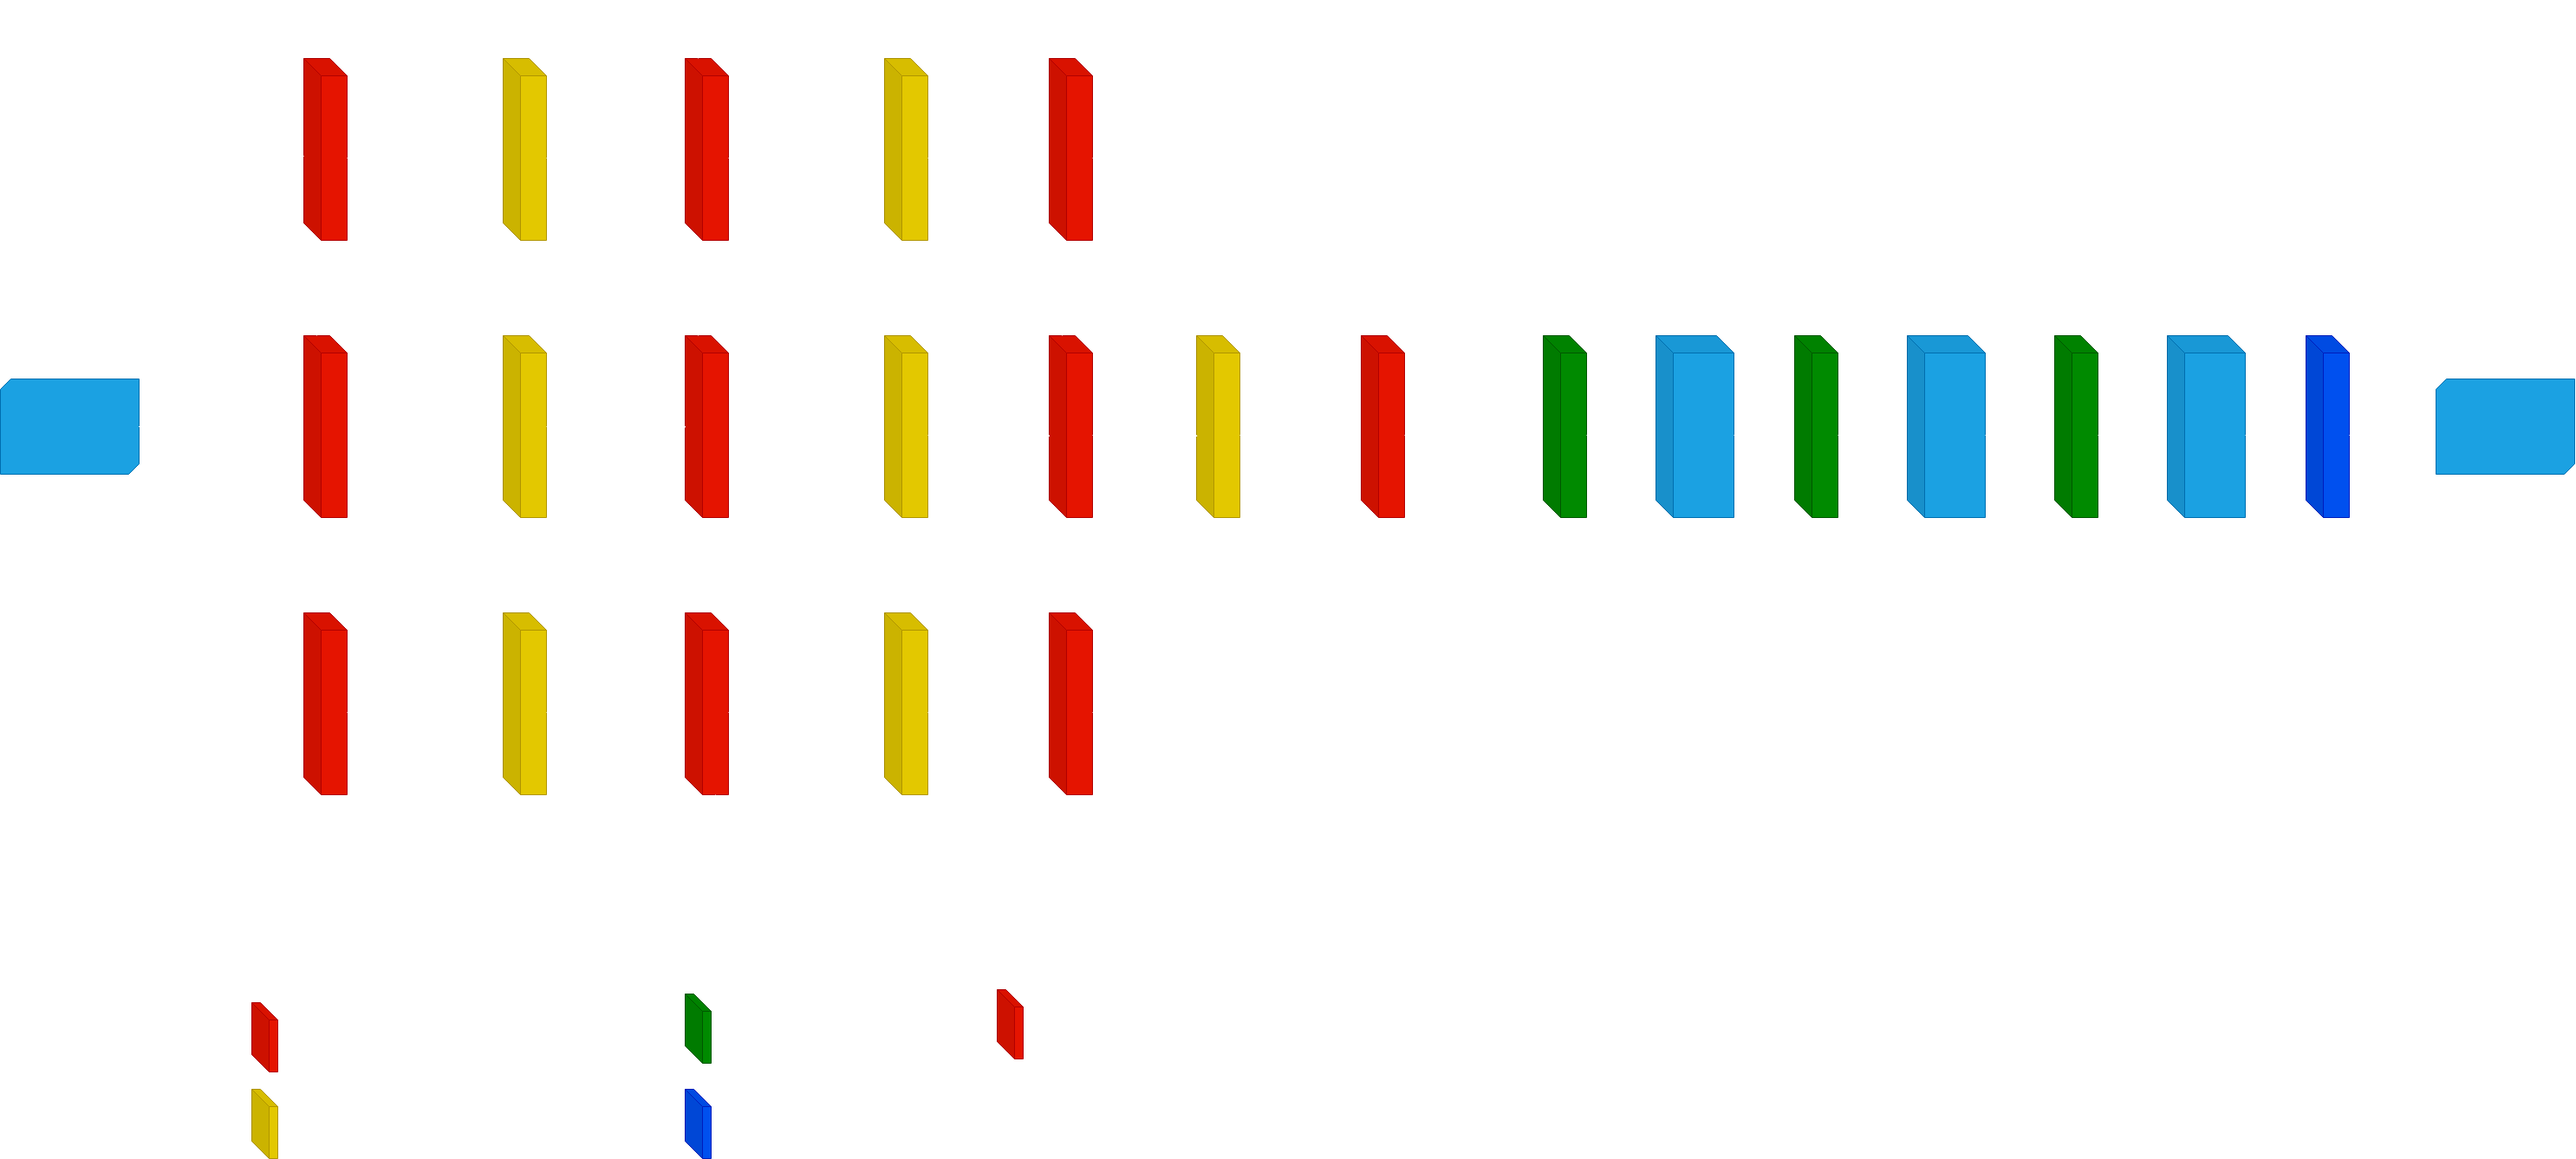
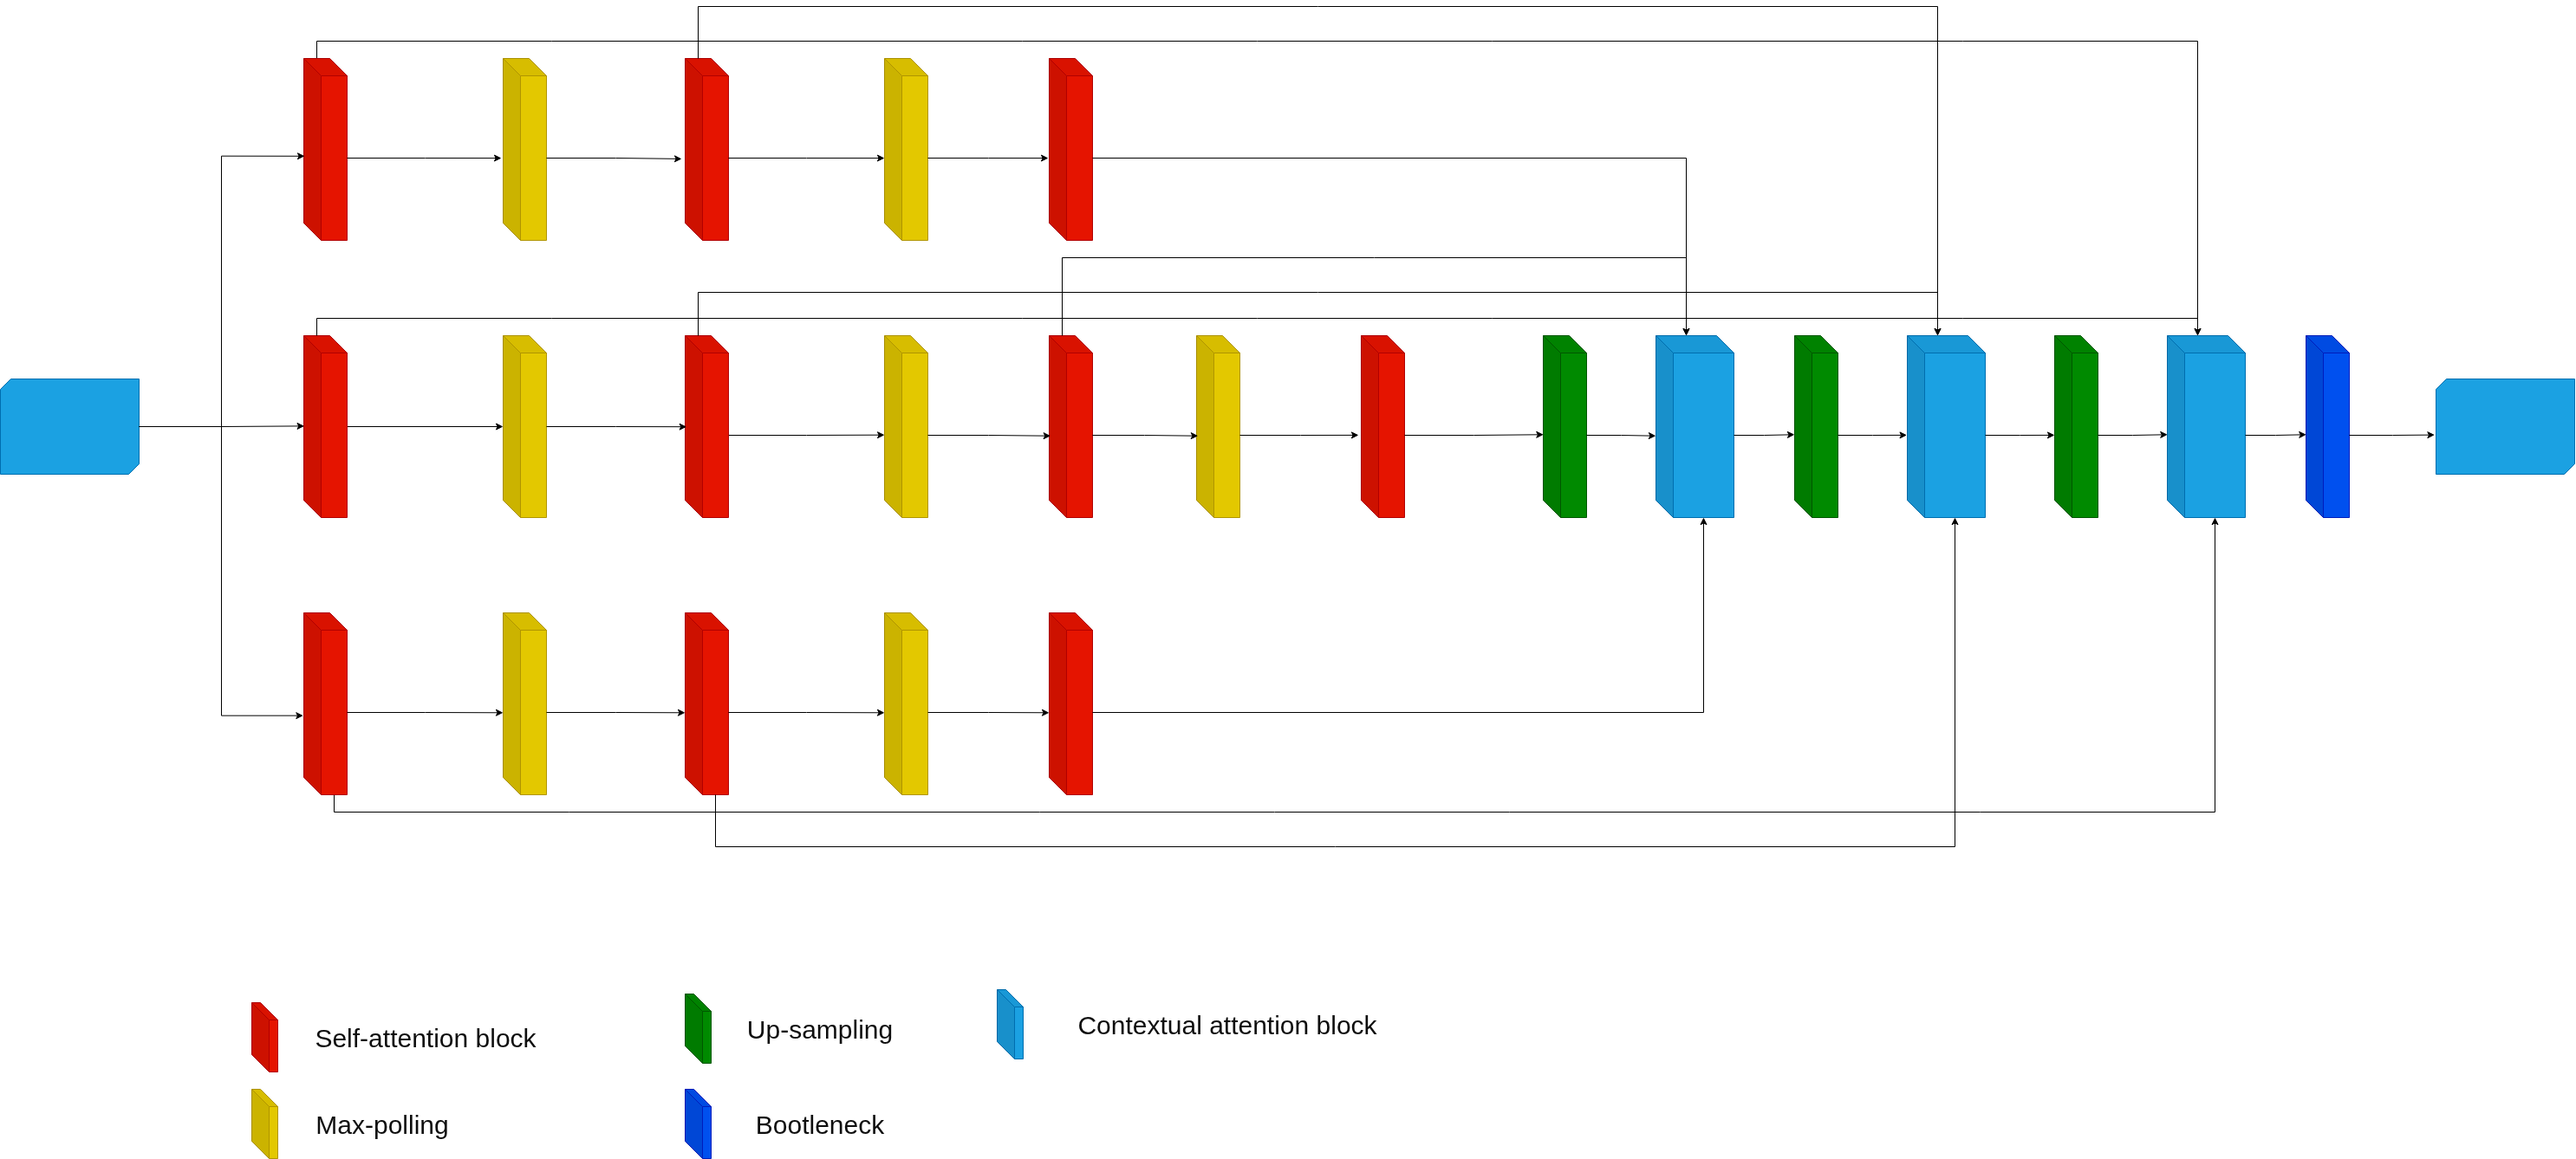
Text ready

diff --git a/document/paper.tex b/document/paper.tex
@@ -250,19 +250,27 @@ Accurate detection of road networks in satellite imagery is a fundamental task f
 Ten artykuł przeznaczony jest do analizy sieci U-Net będącej jedną z wariantów Convolution Neural Network oraz jej wykorzystaniu w celu wykrywania dróg na zdjęciach satelitarnych. Sieć ta szczególnie znana jest w zastosowaniach medycznych.
 \authorSix{Do przepisania}
 	
-U-Net is a specialized convolutional neural network (CNN) originally designed for image segmentation, particularly in biomedical imaging, where precise delineation of structures like organs, tumors, or cells is essential. It was proposed in Ronneberge et la.\cite{Ronneberger2015}. Its name comes from the distinctive U-shaped architecture, which consists of two main pathways: a contracting path (encoder) that captures contextual information by progressively downsampling the image, and an expanding path (decoder) that reconstructs spatial details by upsampling back to the original image size. Figure~\ref{diagram} This symmetrical design enables the U-Net to combine both high-level semantic information and fine-grained localization in the final pixel-wise segmentation map.
+U-Net is a specialized convolutional neural network (CNN) originally designed for image segmentation, particularly in biomedical imaging, where precise delineation of structures like organs, tumors, or cells is essential. It was proposed in Ronneberge et la.\cite{Ronneberger2015}. Its name comes from the distinctive U-shaped architecture, which consists of two main pathways: a contracting path (encoder) that captures contextual information by progressively downsampling the image, and an expanding path (decoder) that reconstructs spatial details by upsampling back to the original image size. Fig.~\ref{fig:unet} This symmetrical design enables the U-Net to combine both high-level semantic information and fine-grained localization in the final pixel-wise segmentation map.
 
 \begin{figure}[htp]
     \centering
     \includegraphics[width=12cm]{diagram}
-    \caption{Diagram of U-net archtecture (from Ibtehaz et al. \cite{Ibtehaz2019}).}
-    \label{fig:galaxy}
+    \caption{Diagram of U-net archtecture (from Ibtehaz et al. \cite{Ibtehaz2019})}
+    \label{fig:unet}
 \end{figure}
 
 The contracting path comprises a series of convolutional layers with activation functions (e.g., ReLU) and pooling operations that reduce spatial dimensions while increasing feature depth. This effectively extracts hierarchical features from the input. At the bottom of the “U” lies the bottleneck, which contains the most abstract representation of the input features. The expanding path then employs up-convolutions (also known as transposed convolutions) to restore spatial resolution. Importantly, it utilizes skip connections from corresponding levels of the encoder to preserve spatial information that might otherwise be lost during downsampling. These skip connections concatenate high-resolution encoder feature maps with decoder features, thus improving localization accuracy in the segmentation output.
 
 Z drguiej strony ciekawym przykładem do rozważenia może być \(\Psi\)-Net opisana et la. Kuang~\cite{Kuang2020} w celu predykcji intracerebral hemorrhage.
-As shown in Fig. 1\authorSix{Podać obraz i przełączyć hiperłącze}, the name goes from \(\Psi\)-shaped archtecture. The architecture is built upon the U-Net encoder-decoder framework but extends it by incorporating multi-slice input to capture spatial contextual information. Instead of a single slice, the network processes three consecutive slices—the target slice and its two adjacent slices. Since feature extraction is consistent across slices, the encoders share parameters, which both preserves contextual information and limits model complexity.
+As shown in Fig.~\ref{fig:psinet}, the name goes from \(\Psi\)-shaped archtecture. The architecture is built upon the U-Net encoder-decoder framework but extends it by incorporating multi-slice input to capture spatial contextual information. Instead of a single slice, the network processes three consecutive slices—the target slice and its two adjacent slices. Since feature extraction is consistent across slices, the encoders share parameters, which both preserves contextual information and limits model complexity.
+
+\begin{figure}[htp]
+    \centering
+    \includegraphics[width=12cm]{psinet}
+    \caption{Diagram of \(\Psi\)-net archtecture}
+    \label{fig:psinet}
+\end{figure}
+
 
 To enhance feature representation, \(\Psi\)-Net introduces attention mechanisms on both the encoding and decoding sides. On the encoding side, self-attention blocks replace the standard convolutional layers of U-Net, enabling the model to suppress irrelevant information and strengthen global feature extraction. These blocks leverage higher-level feature maps to generate attention weights for lower layers, inspired by residual attention learning, while avoiding excessive network depth.
 
@@ -296,10 +304,15 @@ The decoder employs straightforward upsampling followed by convolution instead o
 \section{Results}\label{sec:results}
 Aby obrać punkt odniesienia skorzystano z implementacji U-net zaproponowaną przez Tung Dinh~\cite{github.unet}. Przetrenowaliśmy ten model oraz nasze implementacje na dwóch różnych zbiorach danych. Pierwszy z nich składał się ze 100 zdjęć satelitarnych oraz 1000 sztucznie wygenerowanych obrazków~\cite{kaggle.dataset.image_road}. Drugi zbrór to DeepGlobe 2018 Dataset~\cite{Demir2018} zawerający 6226 zdjęć satelitarnych.
 
+Do ewaluowania wykorzystano 3 metryki. Pierwszą z nich było accuracy
+\[
+acccuracy=\frac{TP+TN}{N},
+\]
+where \(TP\) are true positive, \(TN\) true negative and \(N\) number of classified objects. Kolejna to Intersection over Union (IoU) which calculates the amount of overlapping area between two bounding boxes - predicted boundgin box and ground truth. The last one is Dice coefficient which is also similarity metric, but is more preferable in imbalanced datasets.
+
 Training and evaluations provide us series of useful observatrions. Po pierwsze modele uzyskiwały lepsze wartości accuracy dla danych z DeepGlobe. Wartości dla nich w kolejnych krokach treningu oscylowały w przediale \((0.96,0.98)\), gdy dla zbioru z Kaggle wyniki były w przedziale \((0.9, 0.92)\). Przewagę widać także w metryce dice coefficient, choć tutaj nie ma wyraźnie wizulanej granicy między datasetami.  Ponadto lepsze wyniki również osiągały modele wykorzystujące binary-crossentropy jako funkcję straty, niż te, które obrały dice coefficient loss. Co ciekawe dotyczy to obu omawianych metryk.
 
-Z Fig.~\ref{fig:metrics} zauważyć można zarówno w metryce dice coefficient oraz accuracy i iou coefficient dedicate U-Net nieznacznie pokonuje pozostałe dwa modele. Model bazowy pozstaje w tyle we wszystkich metrykach z wyłączeniem iou coefficient, dla którego uzyskuje lepsze wyniki, niż \(\Psi\)-Net. Obserwjąc stratę, widać, że model \(\Psi\)-Net zbiegał najbardziej niestabilinie. Jednocześnie warto zauważyć jak znacząca jest różnica w czasie treningu. Kiedy czas treningu baseline wyniósł około 1h, trening dedicated U-Net 3h to trening \(\Psi\)-Net już 12 h. Uwzględniając wyniki metryk, zdaje się, że model \(\Psi\)-Net nie jest wart, aż takich kosztów, a przynajmniej bez rozważenia jakichś usprawnień.
-\authorFive{Dodać jeszcze test eval}
+Z Fig.~\ref{fig:metrics} zauważyć można zarówno w metryce dice coefficient oraz accuracy i iou coefficient dedicate U-Net nieznacznie pokonuje pozostałe dwa modele. Model bazowy pozstaje w tyle we wszystkich metrykach z wyłączeniem iou coefficient, dla którego uzyskuje lepsze wyniki, niż \(\Psi\)-Net. Obserwjąc stratę, widać, że model \(\Psi\)-Net zbiegał najbardziej niestabilinie. Wyniki na danych testowych ukazały analogiczne wartości jak w te obserwpwame w danych walidacyjnych. Przedstawiono je w tabeli Table~\ref{tab:test} Jednocześnie warto zauważyć jak znacząca jest różnica w czasie treningu. Kiedy czas treningu baseline wyniósł około 1h, trening dedicated U-Net 3h to trening \(\Psi\)-Net już 12 h. Uwzględniając wyniki metryk, zdaje się, że model \(\Psi\)-Net nie jest wart, aż takich kosztów, a przynajmniej bez rozważenia jakichś usprawnień.
 \begin{figure}[htp]
     \includegraphics[width=6.5cm]{acc.png}
     \includegraphics[width=6.5cm]{dice.png}
@@ -309,6 +322,22 @@ Z Fig.~\ref{fig:metrics} zauważyć można zarówno w metryce dice coefficient o
     \caption{Validation metrics comparison for all three models with dice loss and DeepGlobe dataset. Those models are U-Net (blue, alias unet\_base\_1\_dice\_dg), dedicated U-Net (green, alias unet\_modified\_1\_dice\_dg), and \(\Psi\)-Net (red, psinet\_dice\_dg).}
     \label{fig:metrics}
 \end{figure}
+
+\begin{table}
+\begin{tabular}{ |p{3cm}|p{3cm}|p{3cm}|p{3cm}|  }
+\hline
+\multicolumn{4}{|c|}{Test metrics} \\
+\hline
+Model& accuracy &dice & iou \\
+\hline
+U-Net & 0.9705 & 0.6242 &0.4775 \\
+Dedicated U-Net & 0.9719 & 0.6521   & 0.505 \\
+\(\Psi\)-Net & 0.971 & 0.6259 & 0.4765 \\
+\hline
+\end{tabular}
+\caption{Test dataset metrics evaluation on trained models}
+\label{tab:test}
+\end{table}
 
 Z Fig.~\ref{fig:preds} można mieć wątpliwości, który z modeli poradził sobie najlepiej. Z jednej strony baseline zdaje się najdokładniej znajdować drogi, jednak z drugiej strony sklasyfikował znacznie więcej przypadkowych obiektów jako fragmenty dróg. Ponadto linie dróg w jego przypadku są najgrubsze. Pozostałe dwa modele generowały cieńsze linie, jakby próbowały skupić się na szukaniu centerline dróg. Z tego porównania \(\Psi\)-Net wypadł najgorzej. Zdawał się bardzo oszczędny we wskazywaniu dróg.
 
@@ -327,7 +356,7 @@ Automatic road extraction from satellite imagery has been an active area of rese
 Recent developments have centered on convolutional neural network (CNN) architectures adapted for semantic segmentation tasks. The U-Net model introduced by Ronneberger et al. \cite{Ronneberger2015} demonstrated that a symmetric encoder-decoder structure with skip connections allows precise localization while effectively utilizing limited annotated data. Extensions and modifications of U-Net, including MultiResU-Net \cite{Ibtehaz2019}, C-U-Net \cite{Hou2021}, and attention-assisted U-Net variants \cite{Akhtarmanesh2024}, have been proposed to enhance feature representation and mitigate challenges such as scale variation and occlusions in remote sensing imagery. Different approachs of extending by multiple encoders, U-net networks and 3D U-nets were reviewed et la. Jiangtao\cite{Jiangtao2025}.
 
 \section{Conclusion}
-W pracy przeanalizowano potencjalne możliwości wykorzystania architektury U-Net w celu road recognition. Zaproponowano podstawowy model z modyfikowanymi ilościami neurownów oraz redukcjami nadmiarowych warstw. Postanowiono również zbadać model \(\Psi\)-Net w tym zastosowaniu. Przetestowano modele na dwóch różnych zbiorach danych oraz z dwoma różnymi funkcjami straty: binary crossentropy oraz dice coefficient loss. Metryki 
+W pracy przeanalizowano potencjalne możliwości wykorzystania architektury U-Net w celu road recognition. Zaproponowano podstawowy model z modyfikowanymi ilościami neurownów oraz redukcjami nadmiarowych warstw. Postanowiono również zbadać model \(\Psi\)-Net w tym zastosowaniu. Przetestowano modele na dwóch różnych zbiorach danych oraz z dwoma różnymi funkcjami straty: binary crossentropy oraz dice coefficient loss. Uzyskano dla proponowanych modeli accuracy 0.9719 i 0.971 oraz dice coefficient 0.6521 i 0.6529 dla Dedicated U-Net oraz \(\Psi\)-Net co było wynikami lepszymi, niż domyślny U-Net. Jednakże porównanie realnie uzyskanych masek dróg sugeruje, że modele wymagają dalszych usprawnień. W szególności \(\Psi\)-Net zdaje się nie być szczególnie zachęcającym modelem do trenowania, ze wzlgędu na fakt, że jego trening był 4 razy dłuższy, niż dla Dedicated U-Net.
 
 %% Acknowledgments
 \begin{acks} %% acks environment is optional
